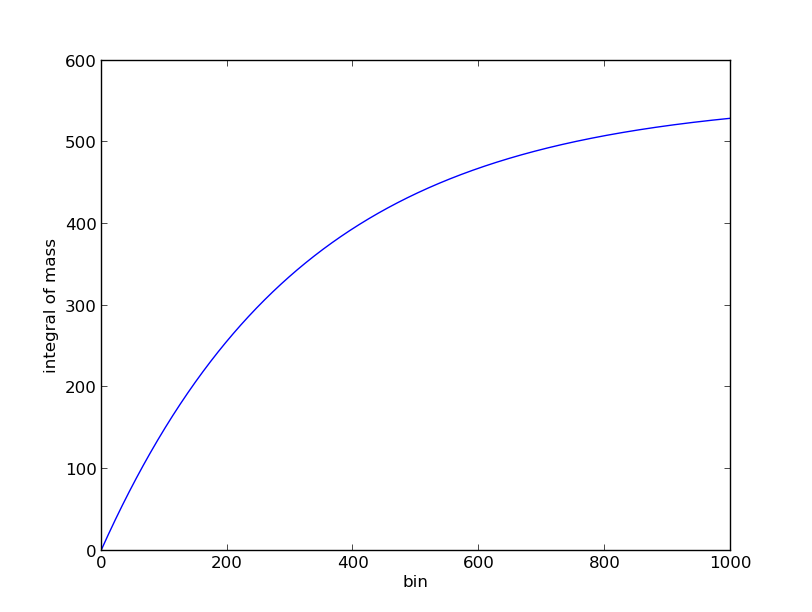
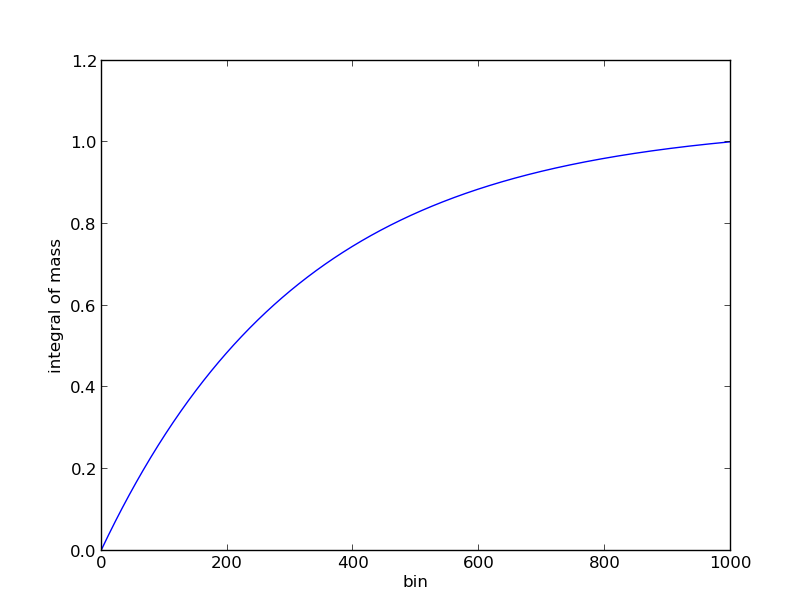
End of Week

diff --git a/Programs/Grid.py b/Programs/Grid.py
@@ -9,15 +9,15 @@ Z = 0.02
 numberfactor = 100000.
 #The numberfactor is what I use to regulate the total number of stars
 
-rangedistance = 100 #The amount of intervals I have for distance
+rangedistance = 1250 #The amount of intervals I have for distance
 maxdistance = 5.#The maximum distance in kpc
 stepdistance = float(maxdistance)/rangedistance
 
-rangemass = 100 #Amount of intervals I have for mass
+rangemass = 1250 #Amount of intervals I have for mass
 maxmass = 50.
 minmass = 5.
 
-rangeage = 100 #Amount of intervals I have for age
+rangeage = 1250 #Amount of intervals I have for age
 
 
 #This function is an excerpt from Lumiradius.py. Since Z=0.02 in our case the formulas
@@ -59,10 +59,9 @@ for distance in range(0,rangedistance):
     #The volumelabel will save the fractional volume of each shell."""
 
 def IMF(mass):
-    e= 1/(1.3) * (1/(minmass**-1.3-maxmass**-1.3))
+    e= 1.35 * (1/(minmass**-1.35-maxmass**-1.35))
     massfactor =  math.log(10)*e*mass**(-1.35)
-    return massfactor
-
+    return (massfactor/rangemass)
 
 def Agerelation(mass,realage):
     #This functions purpose is to make sure I don't include stars, that are already dead.
@@ -176,17 +175,6 @@ for distance in range(0,rangedistance):
             if Magnitude(logL[mass,age],logR[mass,age],realdistance)<9 and agerelation[mass,age]==1:
                 graphage=int(fracage*rangeage)
                 graph[graphage]+=Volume(distance)*agerelation[mass,age]*IMF(masss)*numberfactor
-              
-
-"""for distance in range(0,rangedistance):
-    distances = distance*maxdistance/rangedistance
-    for mass in range(0,rangemass):
-        masss = 5*10**((float(mass))/rangemass)
-        for age in range(0,rangeage):
-            if (agerelation[mass,age]==1):
-                magnitude[distance,mass,age]=Magnitude(logL[mass,age],logR[mass,age],distances)
-            else:
-                magnitude[distance,mass,age]=100"""
 
 agelabel = np.array(range(rangeage))
 agelabel = agelabel.astype(float)
@@ -197,27 +185,3 @@ plt.plot(agelabel, graph)
 plt.xlabel('t/tms')
 plt.ylabel('#stars V<9')
 plt.show()          
-'''
-with file('magnitude2.txt', 'w') as outfile:
-    # I'm writing a header here just for the sake of readability
-    # Any line starting with "#" will be ignored by numpy.loadtxt
-    outfile.write('# Array shape: {0}\n'.format(magnitude.shape))
-
-    # Iterating through a ndimensional array produces slices along
-    # the last axis. This is equivalent to data[i,:,:] in this case
-    for magnitude_slice in magnitude:
-
-        # The formatting string indicates that I'm writing out
-        # the values in left-justified columns 7 characters in width
-        # with 2 decimal places.  
-        np.savetxt(outfile, magnitude_slice, fmt='%-7.2f')
-
-        # Writing out a break to indicate different slices...
-        outfile.write('# New slice\n')
-
-np.savetxt('logL.txt',logL)
-np.savetxt('logR.txt',logR)
-np.savetxt('masslabel.txt',masslabel)
-
-np.savetxt('agerange.txt', np.c_[masslabel,agerange],fmt='%1.2f')
-'''

diff --git a/Programs/Testing Probability functions/IMF.py b/Programs/Testing Probability functions/IMF.py
@@ -13,9 +13,9 @@ massintegral = np.array(range(rangemass))
 massintegral = massintegral.astype(float)
 
 def IMF(mass):
-    e= 1/(1.3) * (1/(minmass**-1.3-maxmass**-1.3))
+    e= 1.35 * (1/(minmass**-1.35-maxmass**-1.35))
     massfactor =  math.log(10)*e*mass**(-1.35)
-    return massfactor
+    return (massfactor/rangemass)
 
 for mass in range(0,rangemass):
     masss = 5*10**((float(mass))/rangemass)
